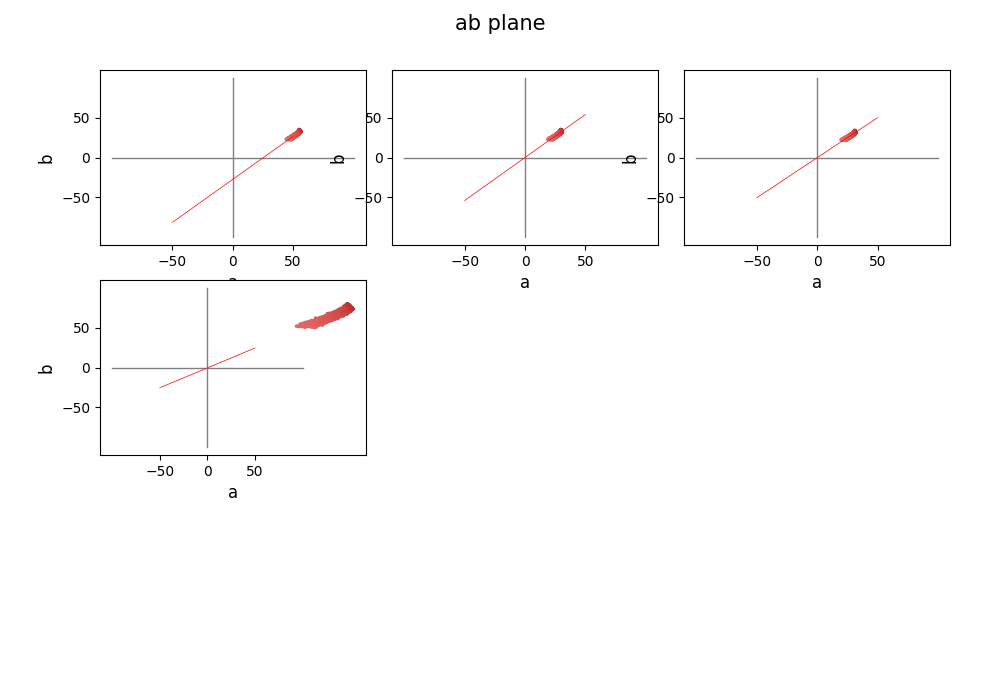
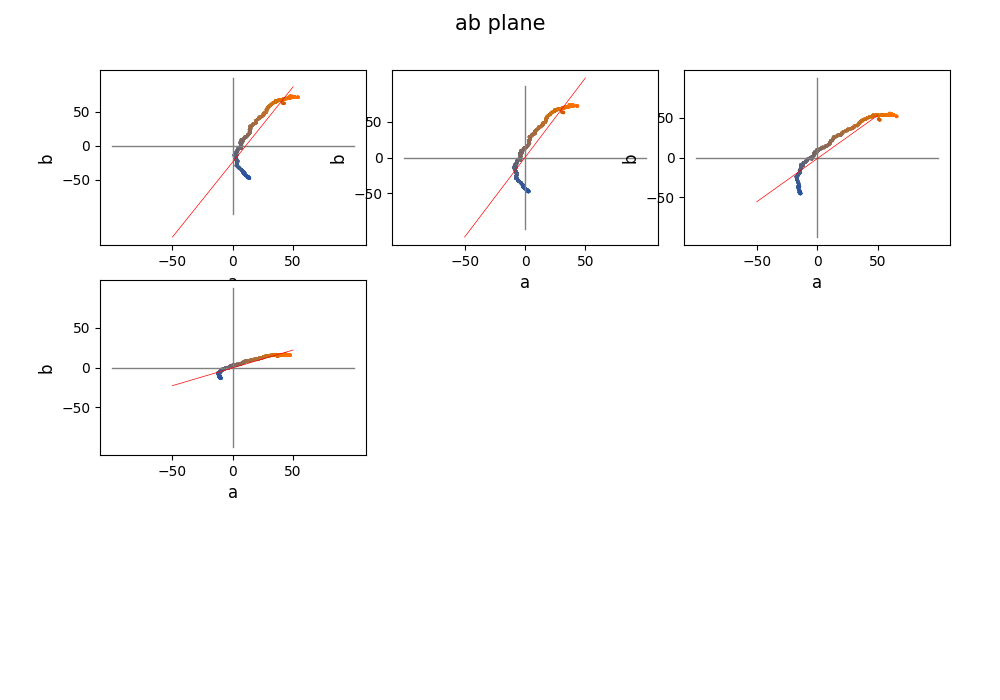
完成流程二

diff --git a/image/scatter.py b/image/scatter.py
@@ -8,6 +8,7 @@ from io_util.image import loadRGB, loadLab
 from datasets.google_image import dataFiles
 from core.color_pixels import ColorPixels
 from sklearn.linear_model import LinearRegression
+import copy
 from cv.image import to32F, rgb2Lab, rgb2hsv, gray2rgb
 
 _root_dir = os.path.dirname(__file__)
@@ -43,7 +44,8 @@ def scatterImageForSource(image_file):
     width = np.max(lab[:, 1]) - np.min(lab[:, 1])
     height = np.max(lab[:, 2]) - np.min(lab[:, 2])
     print width
-    print height
+    print np.max(lab[:, 2])
+    print np.min(lab[:, 2])
 
 
     #线性回归
@@ -105,9 +107,20 @@ def scatterImage(image_file, sourceFile, sourceCoef, sourceWidth, sourceHeight):
     print lab
     print '1111'
 
-    times = 10
+    times = 5
 
+    # intercept = coef_= intercept2= coef_2= intercept3= coef_3= intercept4=coef_4=tLab=rLab=sLab = 0
+    HOLD0 = 8
+    HOLD1 = 4
+    global circle
+    circle = 0
+
+    fig = plt.figure(figsize=(10, 7))
+    fig.subplots_adjust(left=0.1, bottom=0.05, right=0.95, top=0.9, wspace=0.1, hspace=0.2)
+    font_size = 15
+    fig.suptitle("ab plane", fontsize=font_size)
     for i in range(times):
+        global intercept, coef_, intercept2, coef_2, intercept3, coef_3, intercept4, coef_4, tLab, rLab, sLab
         #线性回归
         intercept, coef_ = LR(lab)
 
@@ -127,19 +140,36 @@ def scatterImage(image_file, sourceFile, sourceCoef, sourceWidth, sourceHeight):
         sMatrix, sLab = scaling(rMatrix, sourceWidth, sourceHeight)
         intercept4, coef_4 = LR(sLab)
 
+        # abplane = fig.add_subplot(HOLD0, HOLD1, HOLD1 * circle + 1)
+        # # 不再使用旧的lab，在循环中被污染
+        # # intercept_temp, coef_temp = LR(convert2LabRGB(image)[0])
+        # plot2D(abplane, lab, rgb, intercept, coef_)
+        #
+        # abplane = fig.add_subplot(HOLD0, HOLD1, HOLD1 * circle + 2)
+        # plot2D(abplane, tLab, rgb, intercept2, coef_2)
+        #
+        # abplane = fig.add_subplot(HOLD0, HOLD1, HOLD1 * circle + 3)
+        # plot2D(abplane, rLab, rgb, intercept3, coef_3)
+        #
+        # abplane = fig.add_subplot(HOLD0, HOLD1, HOLD1 * circle + 4)
+        # plot2D(abplane, sLab, rgb, intercept4, coef_4)
+
+        circle += 1
+
+        if (np.abs(np.arctan(sourceCoef) - np.arctan(coef_4)) * 180 / 3.1415926) < 1:
+            print 'finish'
+            break
+
         # print sLab
         print '444'
 
         lab = sLab
 
 
-    fig = plt.figure(figsize=(10, 7))
-    fig.subplots_adjust(left=0.1, bottom=0.05, right=0.95, top=0.9, wspace=0.1, hspace=0.2)
-    font_size = 15
-    fig.suptitle("ab plane", fontsize=font_size)
-
     abplane = fig.add_subplot(331)
-    plot2D(abplane, lab, rgb, intercept, coef_)
+    # 不再使用旧的lab，在循环中被污染
+    intercept_temp, coef_temp = LR(convert2LabRGB(image)[0])
+    plot2D(abplane, convert2LabRGB(image)[0], rgb, intercept_temp, coef_temp)
 
     abplane = fig.add_subplot(332)
     plot2D(abplane, tLab, rgb, intercept2, coef_2)
@@ -154,14 +184,20 @@ def scatterImage(image_file, sourceFile, sourceCoef, sourceWidth, sourceHeight):
     #映射图片
 
     node_image = np.zeros([image.shape[0], image.shape[1], 3], dtype=np.float32)
-    print node_image
 
     #重新获取
     newLab, newRgb = convert2LabRGB(image)
     print len(newLab)
 
+
+    # centerA = (np.min(lab[:, 1]) +  np.max(lab[:, 1])) / 2.0
+    # centerB = (np.min(lab[:, 2]) +  np.max(lab[:, 2])) / 2.0
+    # print centerA
+    # print centerB
+    print '-----'
+
     #2维数据，使用正确的L
-    print len(lab)
+    # print len(lab)
     lab = lab[:, 1:]
     lab = lab.astype(int)
     lab = lab.tolist()
@@ -170,10 +206,20 @@ def scatterImage(image_file, sourceFile, sourceCoef, sourceWidth, sourceHeight):
 
     #2维数据
     sourceLab = sourceLab.astype(int)
+    #去重，能加快速度，但是如果要显示335的正确图像效果，需要删除
     sourceLab = uniqueRows(sourceLab)
     print len(sourceLab)
 
-    print sourceLab
+    # sourceCenterA = (np.min(sourceLab[:, 1]) +  np.max(sourceLab[:, 1])) / 2.0
+    # sourceCenterB = (np.min(sourceLab[:, 2]) +  np.max(sourceLab[:, 2])) / 2.0
+    # copyOfsourceLab = copy.deepcopy(sourceLab)
+    # copyOfsourceLab[:,1] += int(centerA - sourceCenterA)
+    # copyOfsourceLab[:,2] += int(centerB - sourceCenterB)
+
+
+    # print sourceLab
+
+
 
     # for i in range(len(cleanLab)):
         # print cleanLab[i]
@@ -197,7 +243,7 @@ def scatterImage(image_file, sourceFile, sourceCoef, sourceWidth, sourceHeight):
                          smallest = distance
                 tupleDict[lab[position]] = index
                 # node_image[i,j,1] =
-            print index
+            # print index
             index = tupleDict[lab[position]]
 
             node_image[i,j,0] = newLab[position, 0]
@@ -210,6 +256,11 @@ def scatterImage(image_file, sourceFile, sourceCoef, sourceWidth, sourceHeight):
 
     plt.subplot(335)
     plt.imshow(cv2.cvtColor(np.float32(node_image), cv2.COLOR_LAB2RGB) )
+
+    #显示平移后的原图AB图
+    # 舍弃
+    # abplane = fig.add_subplot(HOLD0, HOLD1, HOLD1 * circle + 2)
+    # plot2D(abplane, copyOfsourceLab, sourceRgb, 0, 0)
 
     node_image = cv2.cvtColor(np.float32(node_image), cv2.COLOR_LAB2RGB)
     node_image = cv2.cvtColor(np.float32(node_image), cv2.COLOR_RGB2BGR)
@@ -269,7 +320,6 @@ def translation(lab, intercept, coef_):
     resultMatrix = T * M
 
 
-
     #为了删除图像还原出来的lab数据
     resultLab = resultMatrix[:2, :]
     resultLab = resultLab.T
@@ -277,8 +327,6 @@ def translation(lab, intercept, coef_):
 
 
     return resultMatrix, resultLab
-
-
     # print temp
 
 
@@ -289,7 +337,15 @@ def rotation(tMatrix, coef_, targetCoef):
 
     theta = np.arctan(targetCoef) - np.arctan(coef_)
     # theta = 90.0 / 180 * 3.1415
-    # print theta * 180 / 3.1415926
+    print  np.arctan(targetCoef) * 180 / 3.1415926
+    print np.arctan(coef_) * 180 / 3.1415926
+    print theta * 180 / 3.1415926
+
+    if theta * 180 / 3.1415926 > 90:
+        theta = (theta * 180 / 3.1415926 - 180) / 180 * 3.1415926
+    if theta * 180 / 3.1415926 < -90:
+        theta = (theta * 180 / 3.1415926 + 180) / 180 * 3.1415926
+
 
 
     R  = np.mat(np.zeros((2,2)))

diff --git a/test2.py b/test2.py
@@ -1,0 +1,192 @@
+# -*- coding: utf-8 -*-
+
+import brewer2mpl
+from numpy import *
+import pandas as pd
+import matplotlib
+import matplotlib.pyplot as plt
+import matplotlib.gridspec as gridspec
+import scipy.spatial.distance as distance
+import scipy.cluster.hierarchy as sch
+
+
+# helper for cleaning up axes by removing ticks, tick labels, frame, etc.
+def clean_axis(ax):
+    """Remove ticks, tick labels, and frame from axis"""
+    ax.get_xaxis().set_ticks([])
+    ax.get_yaxis().set_ticks([])
+    for sp in ax.spines.values():
+        sp.set_visible(False)
+
+
+# my_data = genfromtxt('./data.csv', delimiter=',')
+# print my_data
+
+
+# test data
+testL = []
+# 5 samples from one group
+for i in range(5):
+    # 20 measurements from normal with mean 10, stdev 2
+    testL.append([0,0,0,0,0,0,0,0,0,0,0,0,0,0,0,0,0,0,0,0])
+
+# 8 samples from another group
+for i in range(8):
+    # 20 measurements from normal with mean 4, stdev 4
+    testL.append(random.normal(4,4,20))
+
+# testL = my_data
+
+# permute test data and make dataframe not random
+testA = array(testL)[random.permutation(range(len(testL)))]
+# print testA
+testDF = pd.DataFrame(testA)
+# print testDF
+
+print testDF.shape
+
+#线宽
+matplotlib.rcParams['lines.linewidth'] = 0.3
+
+# testDF.index = row
+# testDF.columns = columns
+# x和y轴的标签名称
+testDF.index = [ 'Sample ' + str(x) for x in testDF.index ]
+testDF.columns = [ 'c' + str(x) for x in testDF.columns ]
+
+# look at raw data ，原始图
+axi = plt.imshow(testA,interpolation='nearest', cmap=plt.cm.RdBu)
+plt.savefig('abc.png')
+
+
+pairwise_dists = distance.squareform(distance.pdist(testDF))
+print pairwise_dists
+
+clusters = sch.linkage(pairwise_dists,method='complete')
+print clusters
+
+plt.clf()
+
+
+den = sch.dendrogram(clusters)
+print den['leaves']
+# plt.show()
+
+plt.clf()
+axi = plt.imshow(testDF.ix[den['leaves']],interpolation='nearest',cmap=plt.cm.RdBu)
+plt.savefig('abc2.png')
+
+# ----------
+
+
+fig = plt.figure()
+heatmapGS = gridspec.GridSpec(1,2,wspace=0.0,hspace=0.0,width_ratios=[0.25,1])
+
+### row dendrogram ###
+denAX = fig.add_subplot(heatmapGS[0,0])
+sch.set_link_color_palette(['black'])
+denD = sch.dendrogram(clusters,color_threshold=inf,orientation='left')
+clean_axis(denAX)
+
+### heatmap ###
+heatmapAX = fig.add_subplot(heatmapGS[0,1])
+axi = heatmapAX.imshow(testDF.ix[den['leaves']],interpolation='nearest',aspect='auto',origin='lower',cmap=plt.cm.RdBu)
+clean_axis(heatmapAX)
+plt.savefig('abc3.png')
+
+# ------
+plt.clf()
+
+# rename row clusters
+row_clusters = clusters
+
+# calculate pairwise distances for columns
+col_pairwise_dists = distance.squareform(distance.pdist(testDF.T))
+# cluster
+col_clusters = sch.linkage(col_pairwise_dists,method='complete')
+
+# plot the results
+fig = plt.figure()
+heatmapGS = gridspec.GridSpec(2,2,wspace=0.0,hspace=0.0,width_ratios=[0.25,1],height_ratios=[0.25,1])
+
+### col dendrogram ####
+col_denAX = fig.add_subplot(heatmapGS[0,1])
+col_denD = sch.dendrogram(col_clusters,color_threshold=inf)
+clean_axis(col_denAX)
+
+### row dendrogram ###
+row_denAX = fig.add_subplot(heatmapGS[1,0])
+row_denD = sch.dendrogram(row_clusters,color_threshold=inf,orientation='left')
+clean_axis(row_denAX)
+
+### heatmap ###
+heatmapAX = fig.add_subplot(heatmapGS[1,1])
+axi = heatmapAX.imshow(testDF.ix[den['leaves'],col_denD['leaves']],interpolation='nearest',aspect='auto',origin='lower',cmap=plt.cm.RdBu)
+clean_axis(heatmapAX)
+
+fig.tight_layout()
+plt.savefig('abc4.png')
+
+# ----------
+
+
+# heatmap with row names
+fig = plt.figure(figsize=(5,8))
+heatmapGS = gridspec.GridSpec(2,2,wspace=0.0,hspace=0.0,width_ratios=[0.20,1],height_ratios=[0.20,1])
+
+### col dendrogram ###
+col_denAX = fig.add_subplot(heatmapGS[0,1])
+col_denD = sch.dendrogram(col_clusters,color_threshold=inf)
+clean_axis(col_denAX)
+
+### row dendrogram ###
+row_denAX = fig.add_subplot(heatmapGS[1,0])
+row_denD = sch.dendrogram(row_clusters,color_threshold=inf,orientation='left')
+clean_axis(row_denAX)
+
+### heatmap ###
+heatmapAX = fig.add_subplot(heatmapGS[1,1])
+
+axi = heatmapAX.imshow(testDF.ix[row_denD['leaves'],col_denD['leaves']],interpolation='nearest',aspect='auto',origin='lower',cmap=plt.cm.coolwarm)
+
+plt.grid(ls='solid')
+clean_axis(heatmapAX)
+
+## row labels ##
+heatmapAX.set_yticks(arange(testDF.shape[0]) -.5)
+heatmapAX.yaxis.set_ticks_position('right')
+heatmapAX.set_yticklabels(testDF.index[row_denD['leaves']], fontsize = 6)
+
+## col labels ##
+## -.5 使得grid line偏移到正确位置
+heatmapAX.set_xticks(arange(testDF.shape[1]) -.5)
+xlabelsL = heatmapAX.set_xticklabels(testDF.columns[col_denD['leaves']], fontsize = 8)
+# rotate labels 90 degrees
+for label in xlabelsL:
+    label.set_rotation(90)
+# remove the tick lines
+for l in heatmapAX.get_xticklines() + heatmapAX.get_yticklines():
+    l.set_markersize(0)
+
+
+### scale colorbar ###
+scale_cbGSSS = gridspec.GridSpecFromSubplotSpec(1,3,subplot_spec=heatmapGS[0,0],wspace=0.0,hspace=0.0)
+scale_cbAX = fig.add_subplot(scale_cbGSSS[0,1]) # colorbar for scale in upper left corner
+cb = fig.colorbar(axi,scale_cbAX) # note that we could pass the norm explicitly with norm=my_norm
+cb.set_label('Measurements')
+cb.ax.yaxis.set_ticks_position('left') # move ticks to left side of colorbar to avoid problems with tight_layout
+cb.ax.yaxis.set_label_position('left') # move label to left side of colorbar to avoid problems with tight_layout
+cb.outline.set_linewidth(0)
+# make colorbar labels smaller
+tickL = cb.ax.yaxis.get_ticklabels()
+for t in tickL:
+    t.set_fontsize(t.get_fontsize() - 3)
+
+
+fig.tight_layout()
+
+plt.savefig('abc5.png',dpi = 200)
+
+
+
+
